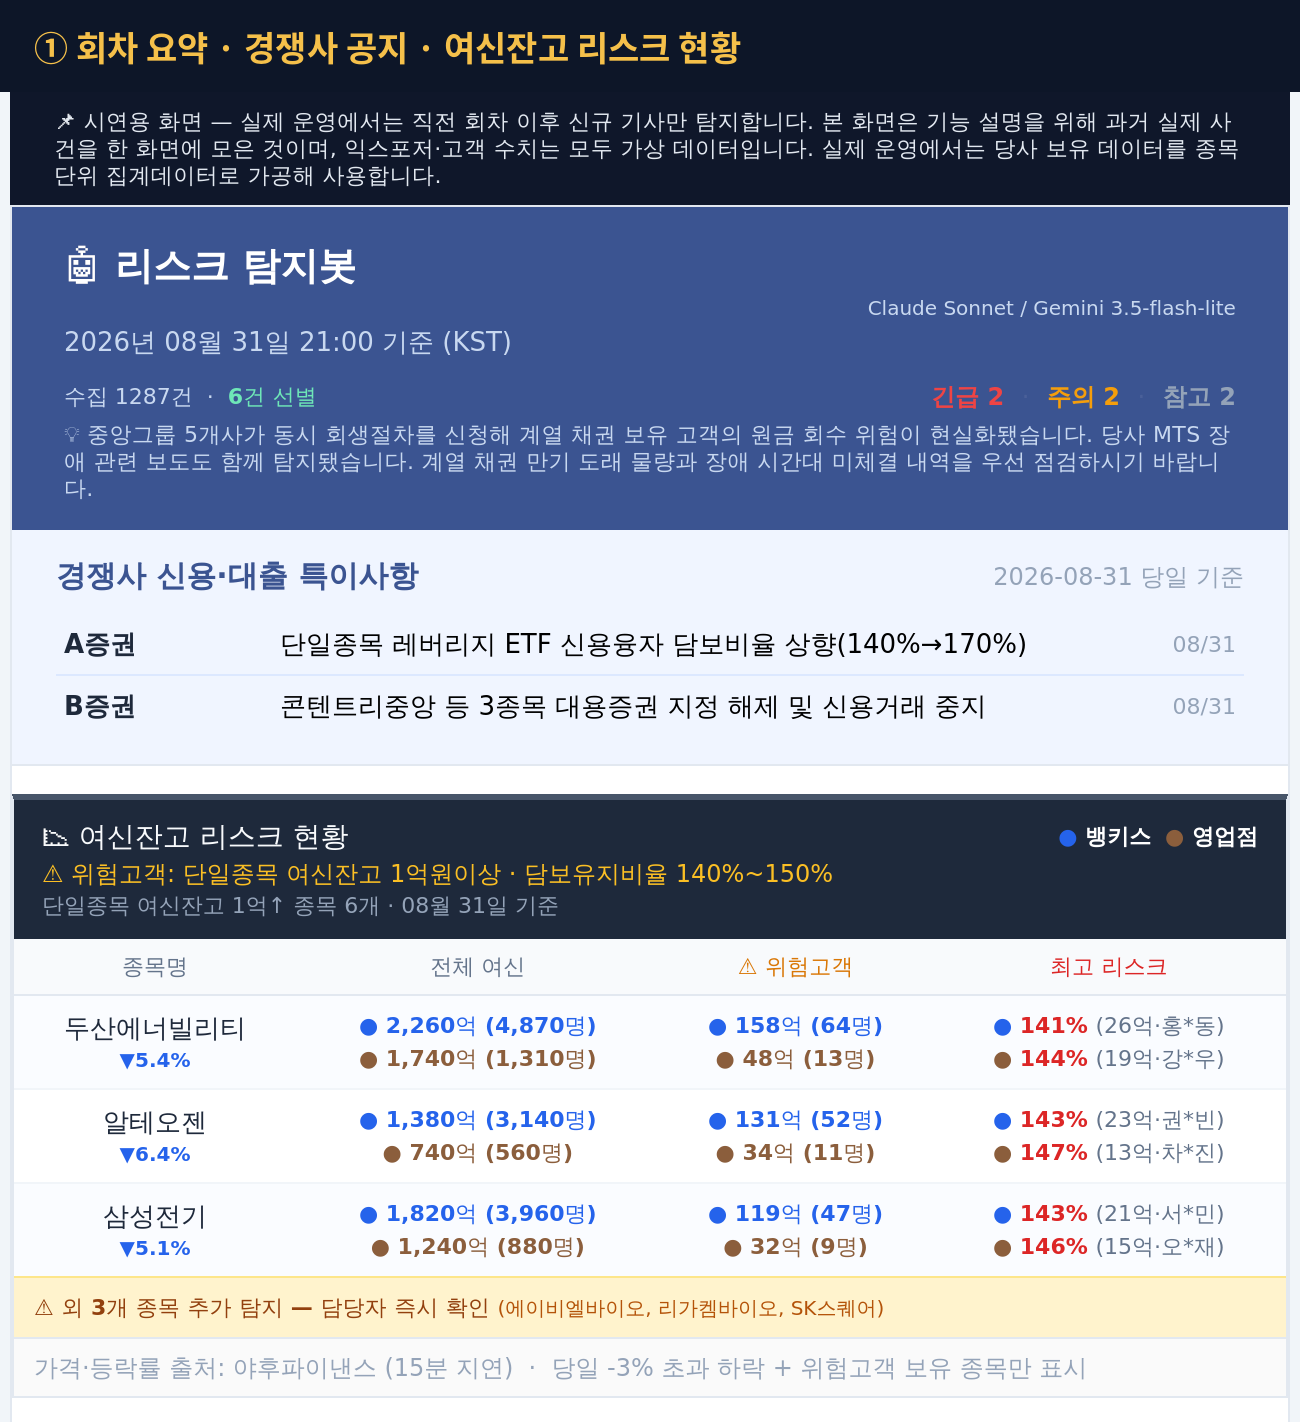
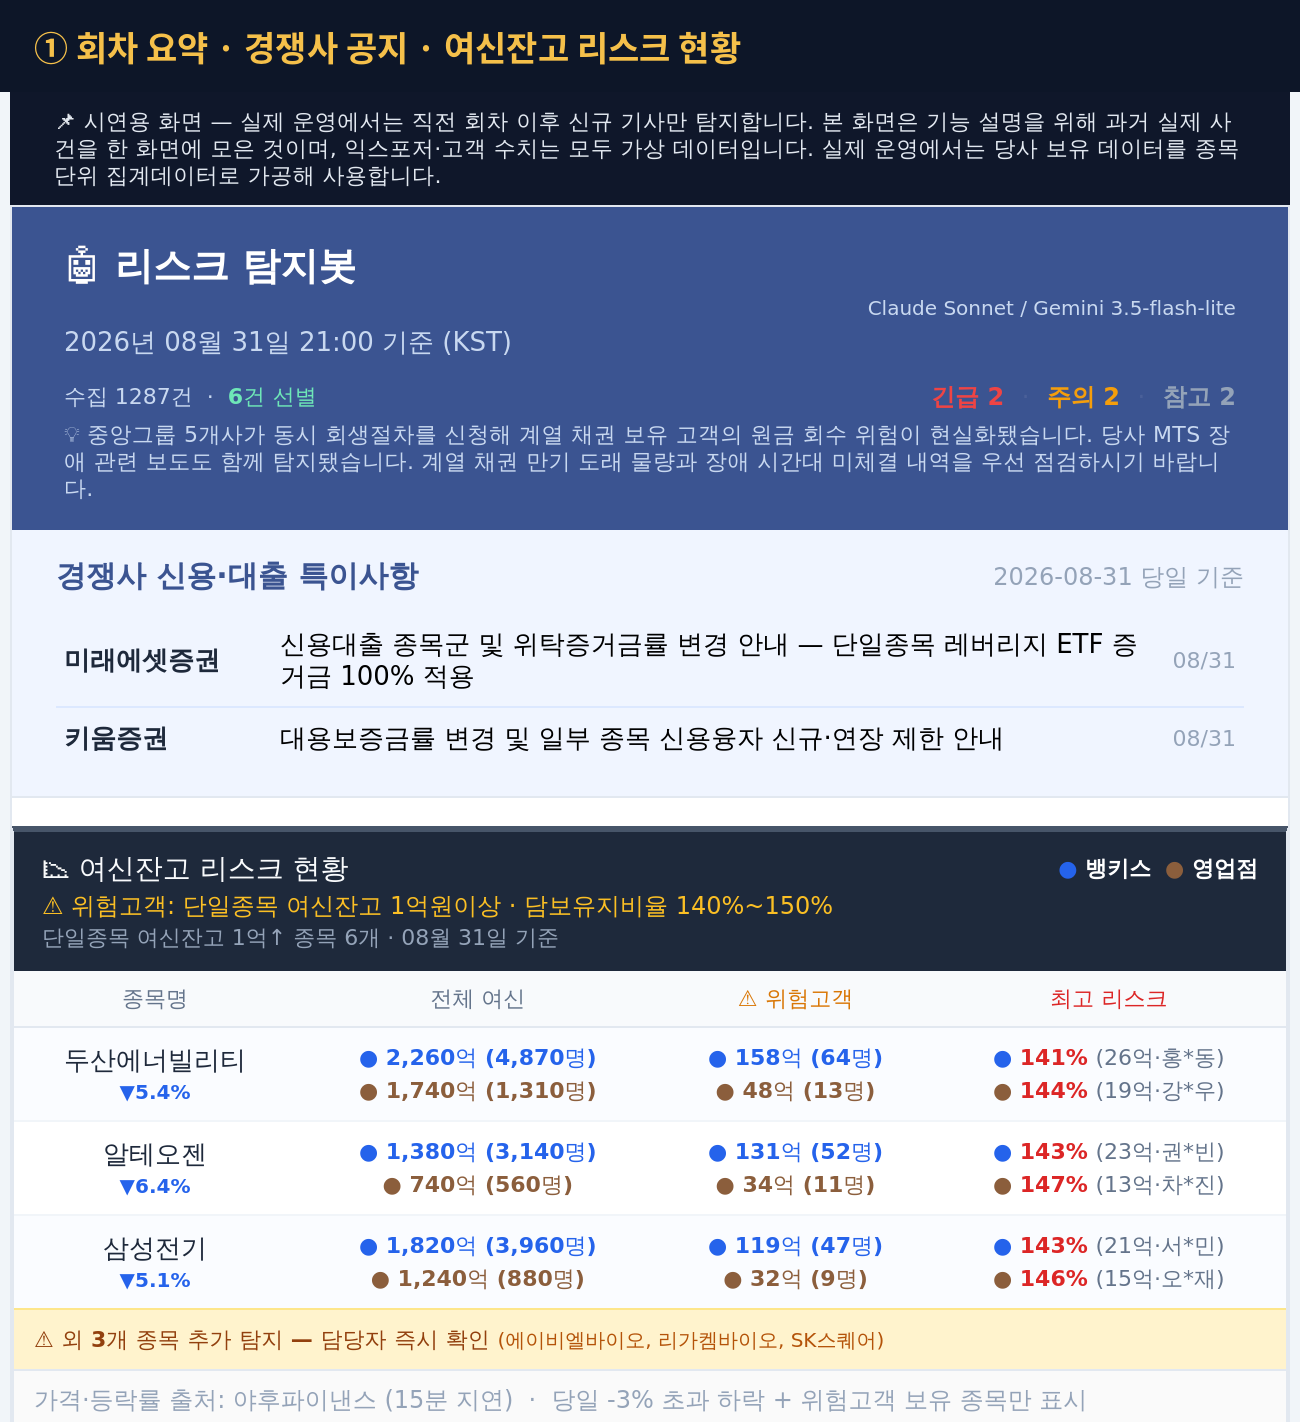
경쟁사 공지 실명 반영

diff --git a/index.html b/index.html
@@ -103,12 +103,12 @@
         <td style="padding:6px 22px 14px 22px;">
           <table width="100%" cellpadding="0" cellspacing="0" border="0">
             <tr>
-          <td width="100" valign="middle" style="padding:7px 4px;font-size:13px;font-weight:bold;color:#1e293b;border-bottom:1px solid #dce8ff;">A증권</td>
-          <td valign="middle" style="padding:7px 4px;font-size:13px;border-bottom:1px solid #dce8ff;">단일종목 레버리지 ETF 신용융자 담보비율 상향(140%→170%)</td>
+          <td width="100" valign="middle" style="padding:7px 4px;font-size:13px;font-weight:bold;color:#1e293b;border-bottom:1px solid #dce8ff;">미래에셋증권</td>
+          <td valign="middle" style="padding:7px 4px;font-size:13px;border-bottom:1px solid #dce8ff;">신용대출 종목군 및 위탁증거금률 변경 안내 — 단일종목 레버리지 ETF 증거금 100% 적용</td>
           <td align="right" valign="middle" style="padding:7px 4px;font-size:11px;color:#94a3b8;white-space:nowrap;border-bottom:1px solid #dce8ff;">08/31</td>
         </tr><tr>
-          <td width="100" valign="middle" style="padding:7px 4px;font-size:13px;font-weight:bold;color:#1e293b;">B증권</td>
-          <td valign="middle" style="padding:7px 4px;font-size:13px;">콘텐트리중앙 등 3종목 대용증권 지정 해제 및 신용거래 중지</td>
+          <td width="100" valign="middle" style="padding:7px 4px;font-size:13px;font-weight:bold;color:#1e293b;">키움증권</td>
+          <td valign="middle" style="padding:7px 4px;font-size:13px;">대용보증금률 변경 및 일부 종목 신용융자 신규·연장 제한 안내</td>
           <td align="right" valign="middle" style="padding:7px 4px;font-size:11px;color:#94a3b8;white-space:nowrap;">08/31</td>
         </tr>
           </table>
